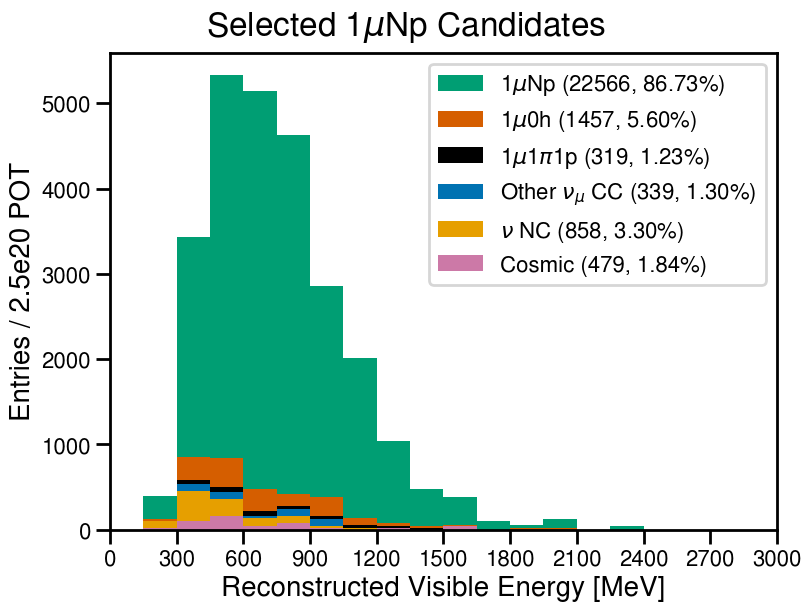
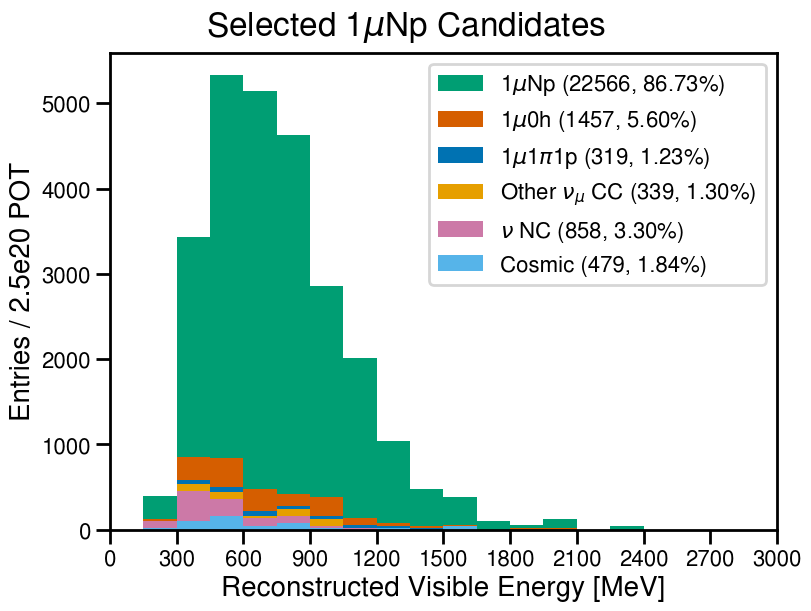
Merging populations in stacked plots now skips colors for population consistency

Changed region(s): [[0.524, 0.2177, 0.6165, 0.4664], [0.1541, 0.7774, 0.4932, 0.8707], [0.5549, 0.8396, 0.5857, 0.8707]]

diff --git a/plotting/plot_funcs.py b/plotting/plot_funcs.py
@@ -154,12 +154,14 @@ def plot_histogram_1d(rf, desc):
         centers = [(yedges[1:] + yedges[:-1]) / 2.0 for c in contents]
         edges = [yedges for c in contents]
         labels = list(desc.categories.values())
+        cs = [f'C{i}' for i in range(len(contents))]
         if hasattr(desc, 'merge'):
             contents = [np.sum(np.array(contents)[m,:], axis=0) for m in desc.merge]
             centers = [centers[m[0]] for m in desc.merge]
             edges = [edges[m[0]] for m in desc.merge]
             labels = [labels[m[0]] for m in desc.merge]
-        cs = [f'C{i}' for i in range(len(contents))][::-1]
+            cs = [cs[m[-1]] for m in desc.merge]
+        cs = cs[::-1]
         contents = contents[::-1]
         centers = centers[::-1]
         edges = edges[::-1]
